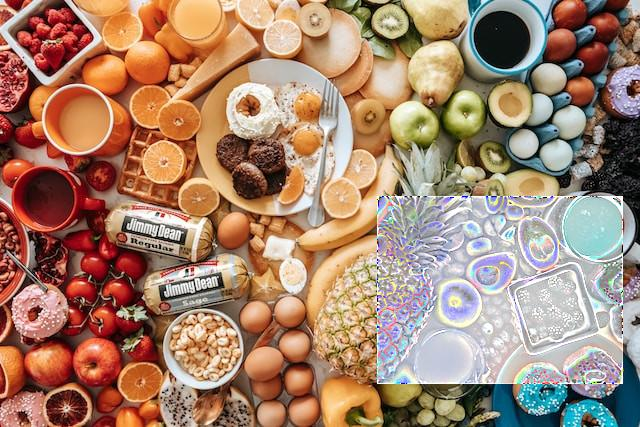
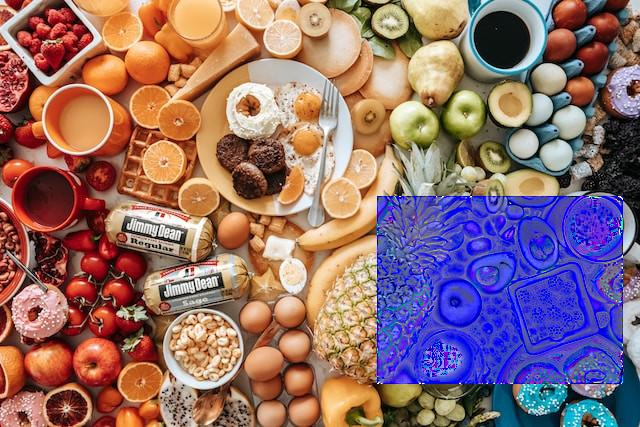
added blue label for fruits

Changed region(s): [[0.5625, 0.4567, 1.0, 0.9133]]

diff --git a/Assets/ConnectionTest/AreaColorGenerationTest.py b/Assets/ConnectionTest/AreaColorGenerationTest.py
@@ -123,8 +123,8 @@ if __name__ == '__main__':
                                                                     #  ,'./testBeach/beach.jpg'
                                                                     #  ,
                                                                     #  './testCluttered/city_black.jpg'
-                                                                     ,'./testImages/testCluttered/city_building.jpg'
-                                                                     ,'./testImages/testCluttered/city_board.jpg'
+                                                                    #  ,'./testImages/testCluttered/city_building.jpg'
+                                                                    #  ,'./testImages/testCluttered/city_board.jpg'
                                                                     #  ,'./testCluttered/city_rgb.jpg'
                                                                     #  ,'./testCluttered/classroom_white.jpg'
                                                                     #  ,'./testCluttered/classroom_bw.jpg'
@@ -132,7 +132,7 @@ if __name__ == '__main__':
                                                                      help='Paths to input images')
     parser.add_argument('--imageAndLabel_paths', nargs='+', default=[
                                                                     # './testImages/testCurry/curryAndLabel_white.jpg'
-                                                                    './testImages/testFruit/fruitAndWhiteArea.jpg' 
+                                                                    './testImages/testFruit/fruitAndBlueArea.jpg' 
                                                                     #  ,'./testRiver/riverAndLabel.jpg'
                                                                     #  ,'./testRiver/riverAndLabel_white.jpg'
                                                                     #  ,'./testSingleColor/blueAndLabel.jpg'
@@ -142,8 +142,8 @@ if __name__ == '__main__':
                                                                     #  ,'./testBeach/beachAndLabel_purple.jpg'
                                                                     #  ,
                                                                     #  './testCluttered/cityAndLabel_black.jpg'
-                                                                     ,'./testImages/testCluttered/cityAndWhiteArea_building.jpg'
-                                                                     ,'./testImages/testCluttered/cityAndWhiteArea_board.jpg'
+                                                                    #  ,'./testImages/testCluttered/cityAndWhiteArea_building.jpg'
+                                                                    #  ,'./testImages/testCluttered/cityAndWhiteArea_board.jpg'
                                                                     #  ,'./testCluttered/cityAndLabel_rgb.jpg'
                                                                     #  ,'./testCluttered/classroomAndLabel_white.jpg'
                                                                     #  ,'./testCluttered/classroomAndLabel_bw.jpg'
@@ -160,8 +160,8 @@ if __name__ == '__main__':
                                                                     #  ,'./testSingleColor/blueAndRGLabelMask.jpg'
                                                                     #  ,'./testBeach/beachMask.jpg'
                                                                     #  ,
-                                                                    ,'./testImages/testCluttered/cityAreaMask_building.jpg'
-                                                                    ,'./testImages/testCluttered/cityAreaMask_board.jpg'
+                                                                    # ,'./testImages/testCluttered/cityAreaMask_building.jpg'
+                                                                    # ,'./testImages/testCluttered/cityAreaMask_board.jpg'
                                                                     #  './testCluttered/cityMask.jpg'
                                                                     #  ,'./testCluttered/cityMask.jpg'
                                                                     #  ,'./testCluttered/classroomMask.jpg'
